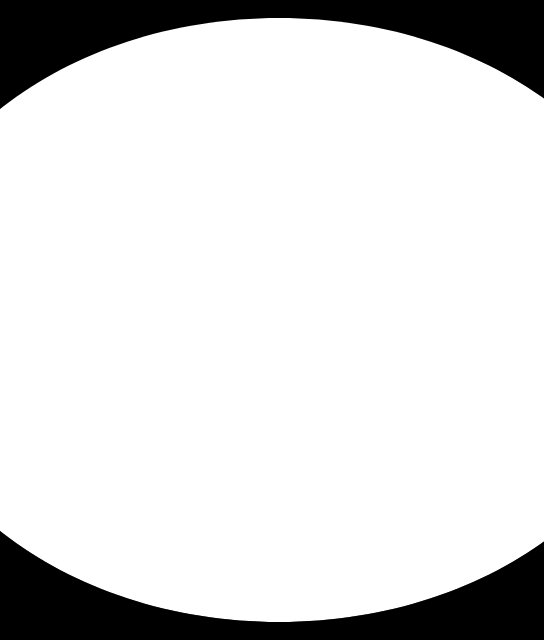
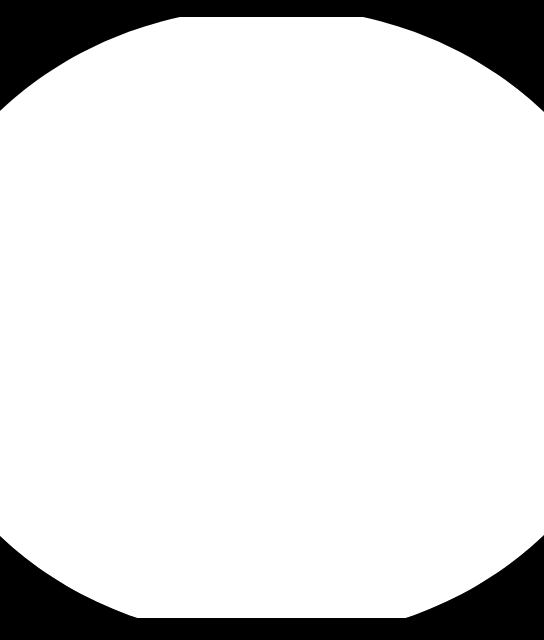
fix old version mesh,add imu tracker

diff --git a/src/jarvis/jarvis/imu_tracker.cc b/src/jarvis/jarvis/imu_tracker.cc
@@ -1,0 +1,62 @@
+#include "imu_tracker.h"
+
+#include <cmath>
+#include <limits>
+
+#include "Eigen/Geometry"
+#include "common/math.h"
+#include "glog/logging.h"
+#include "transform/transform.h"
+
+namespace jarvis {
+
+ImuTracker::ImuTracker(const double imu_gravity_time_constant,
+                       const common::Time time)
+    : imu_gravity_time_constant_(imu_gravity_time_constant),
+      time_(time),
+      last_linear_acceleration_time_(common::Time::min()),
+      orientation_(Eigen::Quaterniond::Identity()),
+      gravity_vector_(Eigen::Vector3d::UnitZ()),
+      imu_angular_velocity_(Eigen::Vector3d::Zero()) {}
+
+void ImuTracker::Advance(const common::Time time) {
+  CHECK_LE(time_, time);
+  const double delta_t = common::ToSeconds(time - time_);
+  const Eigen::Quaterniond rotation =
+      transform::AngleAxisVectorToRotationQuaternion(
+          Eigen::Vector3d(imu_angular_velocity_ * delta_t));
+  orientation_ = (orientation_ * rotation).normalized();
+  gravity_vector_ = rotation.conjugate() * gravity_vector_;
+  time_ = time;
+}
+void ImuTracker::AddImuData(const sensor::ImuData& imu_data) {
+  AddImuLinearAccelerationObservation(imu_data.linear_acceleration);
+  AddImuAngularVelocityObservation(imu_data.angular_velocity);
+}
+void ImuTracker::AddImuLinearAccelerationObservation(
+    const Eigen::Vector3d& imu_linear_acceleration) {
+  // Update the 'gravity_vector_' with an exponential moving average using the
+  // 'imu_gravity_time_constant'.
+  const double delta_t =
+      last_linear_acceleration_time_ > common::Time::min()
+          ? common::ToSeconds(time_ - last_linear_acceleration_time_)
+          : std::numeric_limits<double>::infinity();
+  last_linear_acceleration_time_ = time_;
+  const double alpha = 1. - std::exp(-delta_t / imu_gravity_time_constant_);
+  gravity_vector_ =
+      (1. - alpha) * gravity_vector_ + alpha * imu_linear_acceleration;
+  // Change the 'orientation_' so that it agrees with the current
+  // 'gravity_vector_'.
+  const Eigen::Quaterniond rotation = Eigen::Quaterniond::FromTwoVectors(
+      gravity_vector_, orientation_.conjugate() * Eigen::Vector3d::UnitZ());
+  orientation_ = (orientation_ * rotation).normalized();
+  CHECK_GT((orientation_ * gravity_vector_).z(), 0.);
+  CHECK_GT((orientation_ * gravity_vector_).normalized().z(), 0.99);
+}
+
+void ImuTracker::AddImuAngularVelocityObservation(
+    const Eigen::Vector3d& imu_angular_velocity) {
+  imu_angular_velocity_ = imu_angular_velocity;
+}
+
+}  // namespace jarvis

diff --git a/src/jarvis/jarvis/imu_tracker.h b/src/jarvis/jarvis/imu_tracker.h
@@ -1,0 +1,43 @@
+#ifndef JARVIS_IMU_TRAKCER_FILTER_H_
+#define  JARVIS_IMU_TRAKCER_FILTER_H_
+
+#include "Eigen/Geometry"
+#include "common/time.h"
+#include "sensor/imu_data.h"
+namespace jarvis {
+
+// Keeps track of the orientation using angular velocities and linear
+// accelerations from an IMU. Because averaged linear acceleration (assuming
+// slow movement) is a direct measurement of gravity, roll/pitch does not drift,
+// though yaw does.
+class ImuTracker {
+ public:
+  ImuTracker(double imu_gravity_time_constant, common::Time time);
+
+  // Advances to the given 'time' and updates the orientation to reflect this.
+  void Advance(common::Time time);
+  void AddImuData(const sensor::ImuData& imu_data);
+  // Updates from an IMU reading (in the IMU frame).
+  void AddImuLinearAccelerationObservation(
+      const Eigen::Vector3d& imu_linear_acceleration);
+  void AddImuAngularVelocityObservation(
+      const Eigen::Vector3d& imu_angular_velocity);
+
+  // Query the current time.
+  common::Time time() const { return time_; }
+
+  // Query the current orientation estimate.
+  Eigen::Quaterniond orientation() const { return orientation_; }
+
+ private:
+  const double imu_gravity_time_constant_;
+  common::Time time_;
+  common::Time last_linear_acceleration_time_;
+  Eigen::Quaterniond orientation_;
+  Eigen::Vector3d gravity_vector_;
+  Eigen::Vector3d imu_angular_velocity_;
+};
+
+}  // namespace jarvis
+
+#endif

diff --git a/src/jarvis/jarvis/option_parse.cc b/src/jarvis/jarvis/option_parse.cc
@@ -328,9 +328,21 @@ void ParseYAMLOption(const std::string &file_path,
  info << "Start parse " << mask_file << "\n";
  CheckNode paras = YAML::LoadFile(mask_file);
  calibrate_options->masks.resize(kCameraNum);
- calibrate_options->masks[0] =
-     GetMask(paras, "front_left_contour",
-             calibrate_options->camera_options[0].resolution);
+ try {
+   cv::Mat tmp = GetMask(paras, "front_left_contour",
+                         calibrate_options->camera_options[0].resolution);
+   calibrate_options->masks[0] = tmp;
+ }catch(...){
+   try {
+     cv::Mat tmp = GetMask(paras, "grass_front_contour",
+                           calibrate_options->camera_options[0].resolution);
+
+     calibrate_options->masks[0] = tmp;
+   }catch(...){
+
+   };
+ };
+
 //  /
 //  calibrate_options->masks[2] =
 //      GetMask(paras, "side_left_contour",
@@ -536,7 +548,9 @@ void ParseYAMLOption(const std::string &file,
     }
     // cv::imshow("mask1",option->feature_track_options[0].mask);
     // cv::imshow("mask2",calib_option.masks[0]);
-    option->feature_track_options[0].mask &= calib_option.masks[0];
+    if(!calib_option.masks[0].empty()){
+        option->feature_track_options[0].mask &= calib_option.masks[0];
+    }
     // cv::imshow("mask",option->feature_track_options[0].mask);
     //
     for (int i = 1; i < track_cam_num; i++, j++) {

diff --git a/src/jarvis/jarvis/option_parse.h b/src/jarvis/jarvis/option_parse.h
@@ -27,8 +27,8 @@ struct CheckNode : public YAML::Node {
     try {
       return Node::as<T>();
     } catch (...) {
-      LOG(FATAL) << "[" << key_ << "]"
-                 << " not in the yaml_file or check key whitespace";
+      LOG(ERROR) <<  "[" << key_ << "]"
+                             << " not in the yaml_file or check key whitespace";
     }
     return Node::as<T>();
   }
